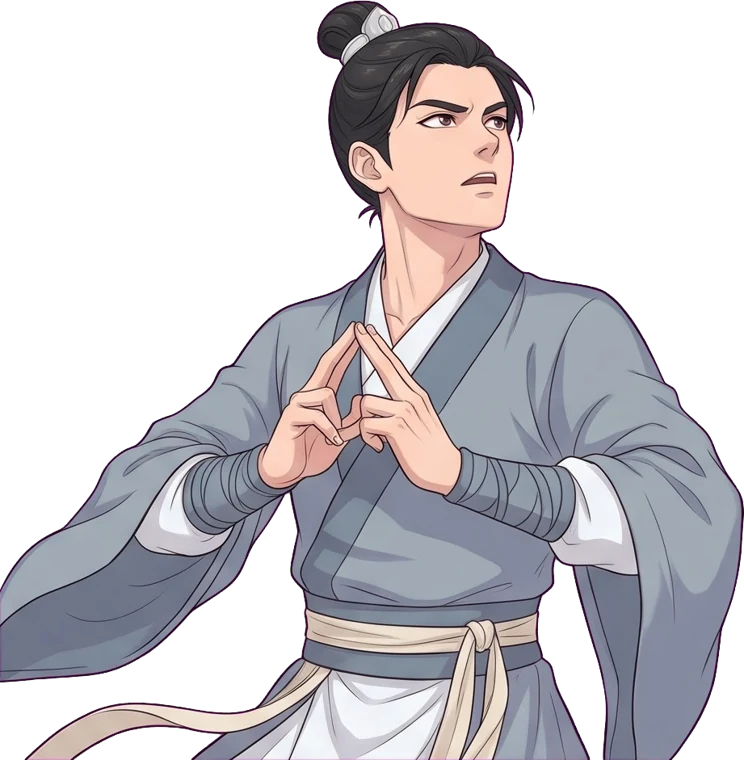
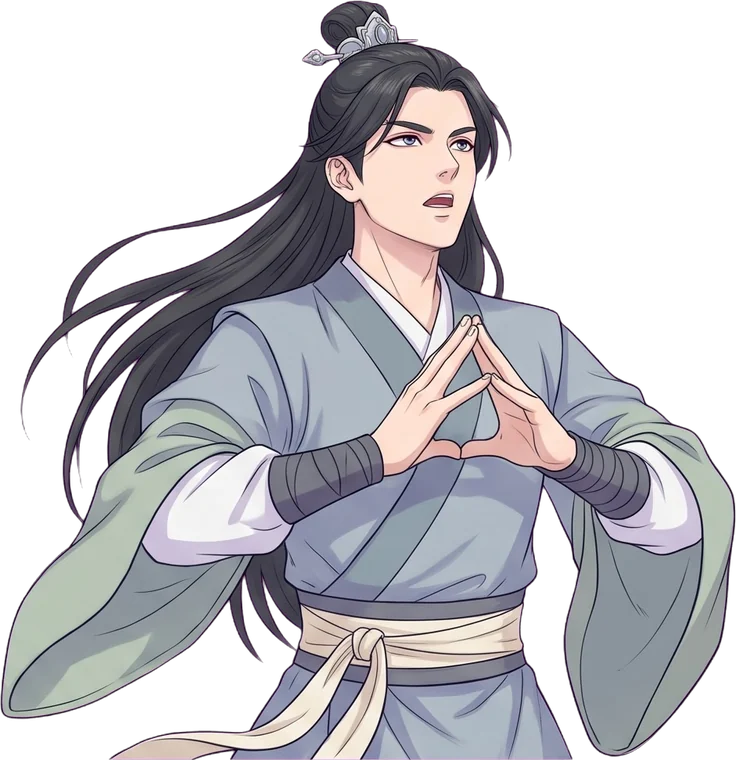
最終版124d:男主本命特寫改為長髮(劍/法/體/丹)
Claude-Session: https://claude.ai/code/session_01Eudv1bj25nFF4NszqJcvVs

diff --git a/index.html b/index.html
@@ -16404,7 +16404,7 @@ window.SFX = (() => {
 window.BP114 = {"F_o1_1": "assets/BP/F_o1_1.webp?v=845711f1", "F_o1_2": "assets/BP/F_o1_2.webp?v=63e0ea8a", "F_o1_3": "assets/BP/F_o1_3.webp?v=4c8fedf0", "F_o1_4": "assets/BP/F_o1_4.webp?v=2d3a9938", "F_o1_5": "assets/BP/F_o1_5.webp?v=39089390", "F_o1_6": "assets/BP/F_o1_6.webp?v=665fdf49", "F_o1_7": "assets/BP/F_o1_7.webp?v=a421ed48", "F_o1_8": "assets/BP/F_o1_8.webp?v=46d02e9f", "F_o1_9": "assets/BP/F_o1_9.webp?v=71e7e51b", "M_o1_1": "assets/BP/M_o1_1.webp?v=2560faa7", "M_o1_2": "assets/BP/M_o1_2.webp?v=7ad66686", "M_o1_3": "assets/BP/M_o1_3.webp?v=49844ea7", "M_o1_4": "assets/BP/M_o1_4.webp?v=e28f9fdc", "M_o1_5": "assets/BP/M_o1_5.webp?v=b9ccd80b", "M_o1_6": "assets/BP/M_o1_6.webp?v=e9083ee8", "M_o1_7": "assets/BP/M_o1_7.webp?v=58ceecdd", "M_o1_8": "assets/BP/M_o1_8.webp?v=cfe7d049", "M_o1_9": "assets/BP/M_o1_9.webp?v=c5d17e5e"};
 
 /* v122 本命絕學過場特寫 */
-window.UC121 = {"F_sword": "assets/UC/F_sword.webp?v=d6b677e1", "F_magic": "assets/UC/F_magic.webp?v=c86b9151", "F_body": "assets/UC/F_body.webp?v=ed430cdf", "F_pill": "assets/UC/F_pill.webp?v=a4586067", "M_sword": "assets/UC/M_sword.webp?v=64061f99", "M_magic": "assets/UC/M_magic.webp?v=8ec4d8b1", "M_body": "assets/UC/M_body.webp?v=26453e35", "M_pill": "assets/UC/M_pill.webp?v=3ebd54ef"};
+window.UC121 = {"F_sword": "assets/UC/F_sword.webp?v=d6b677e1", "F_magic": "assets/UC/F_magic.webp?v=c86b9151", "F_body": "assets/UC/F_body.webp?v=ed430cdf", "F_pill": "assets/UC/F_pill.webp?v=a4586067", "M_sword": "assets/UC/M_sword.webp?v=e231c3ac", "M_magic": "assets/UC/M_magic.webp?v=1e32114b", "M_body": "assets/UC/M_body.webp?v=5d231bd2", "M_pill": "assets/UC/M_pill.webp?v=a7f87dd1"};
 
 /* v124 選招面板主角半身(n=戰意 h=負傷) */
 window.CP124 = {"F_n": "assets/CP/F_n.webp?v=fdc6f39c", "F_h": "assets/CP/F_h.webp?v=7e210eae", "M_n": "assets/CP/M_n.webp?v=2309679a", "M_h": "assets/CP/M_h.webp?v=c014af9b"};
